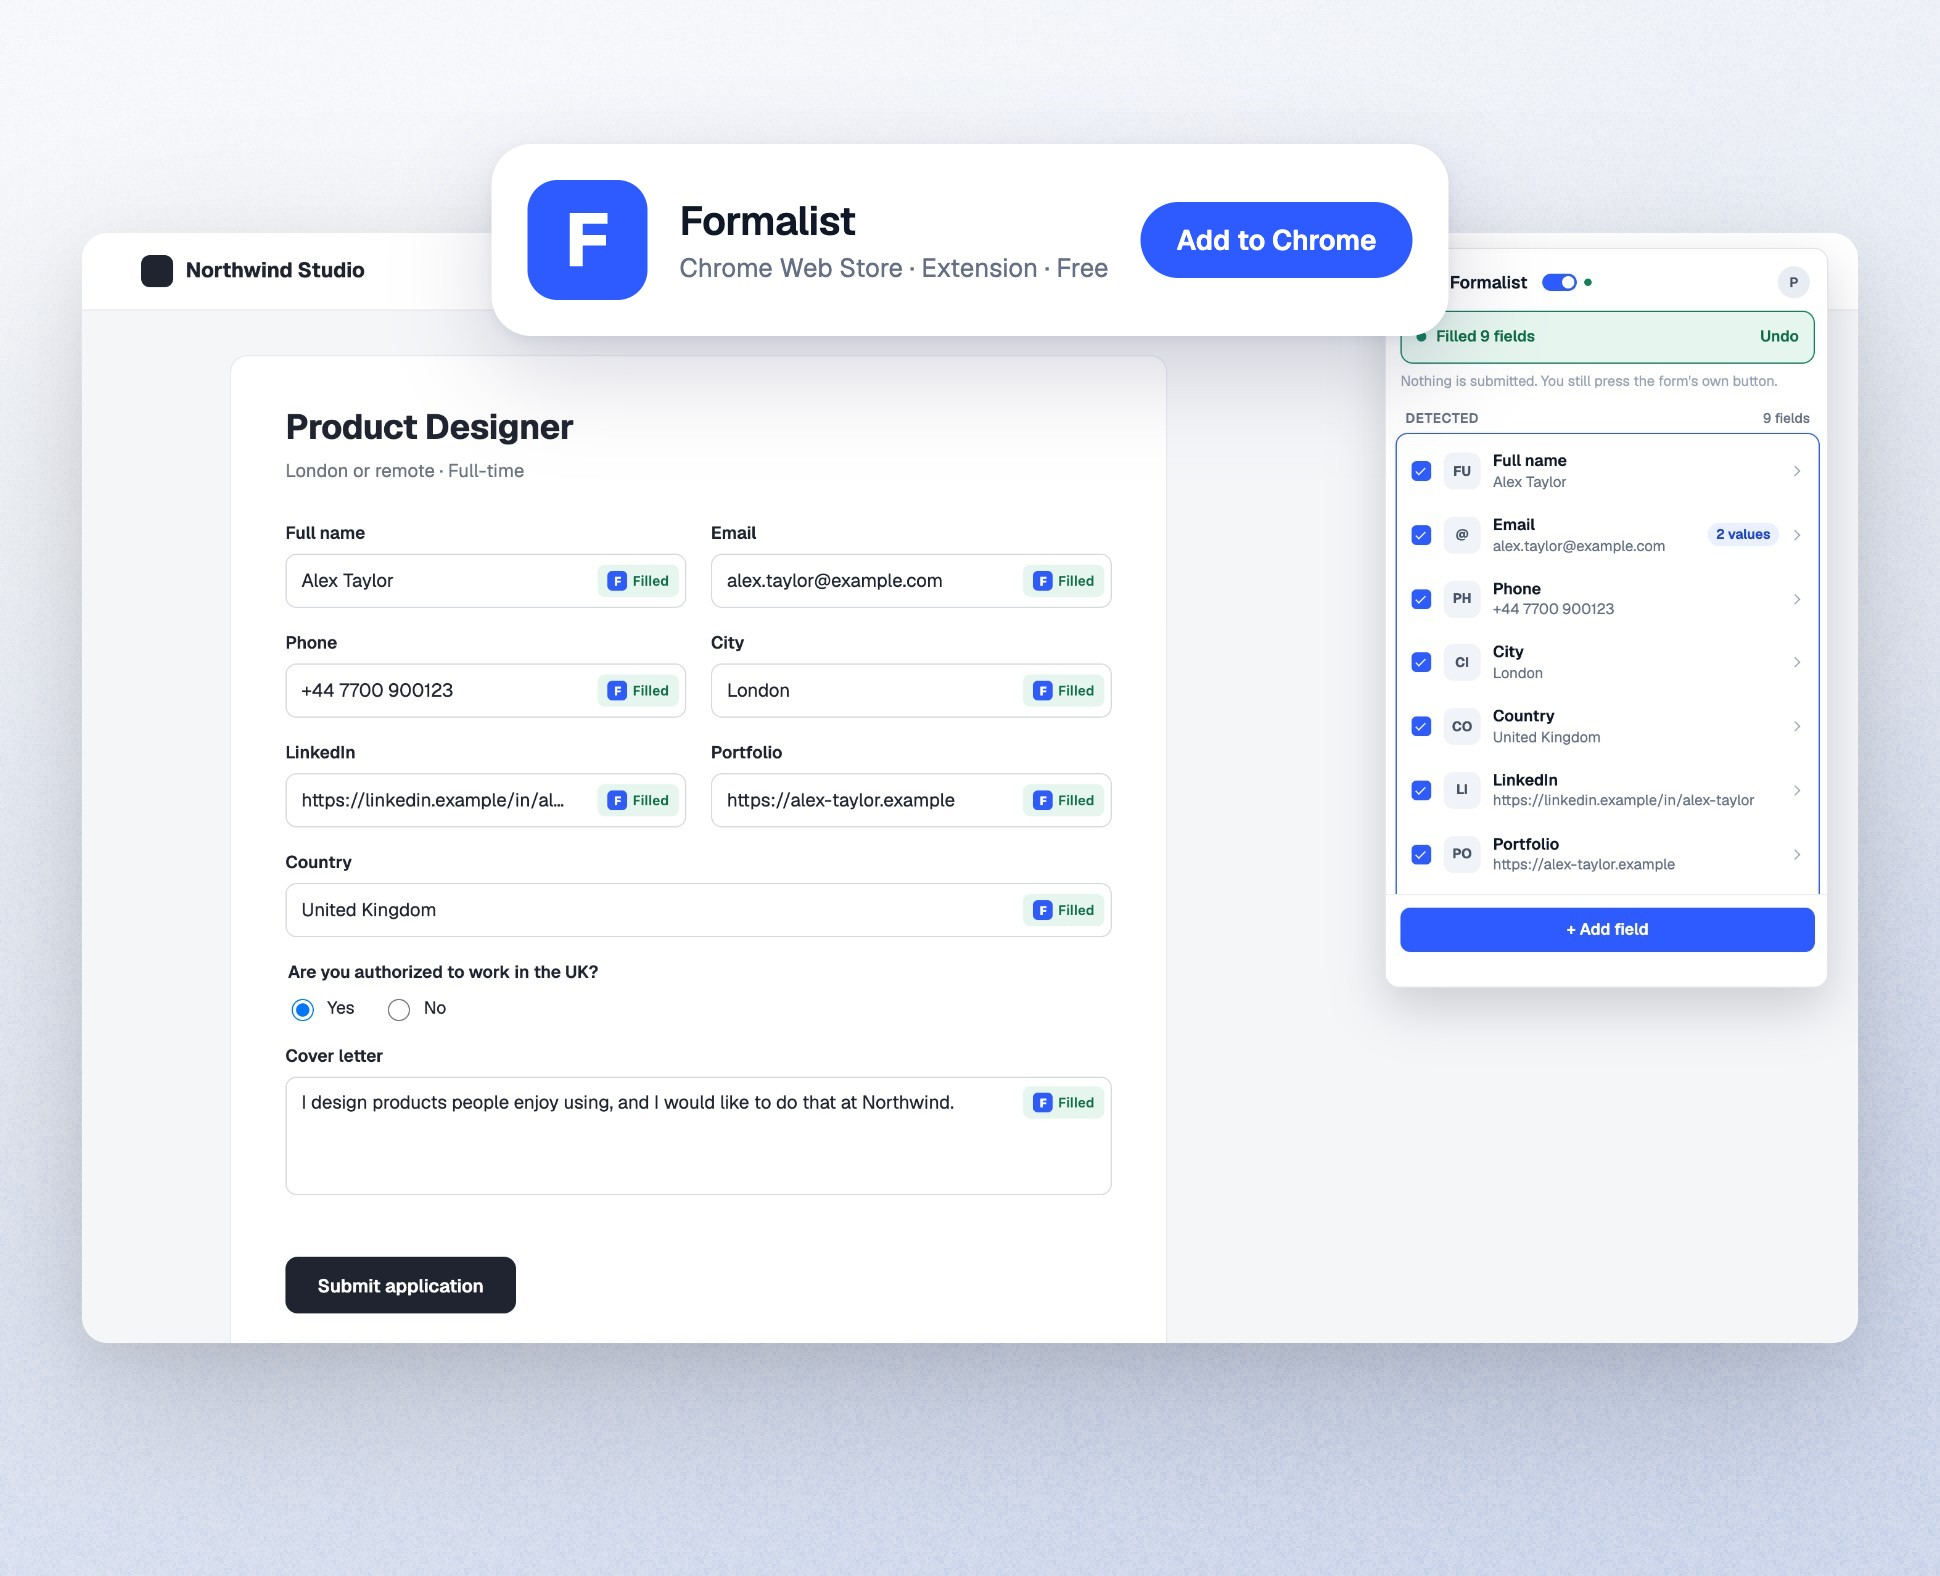
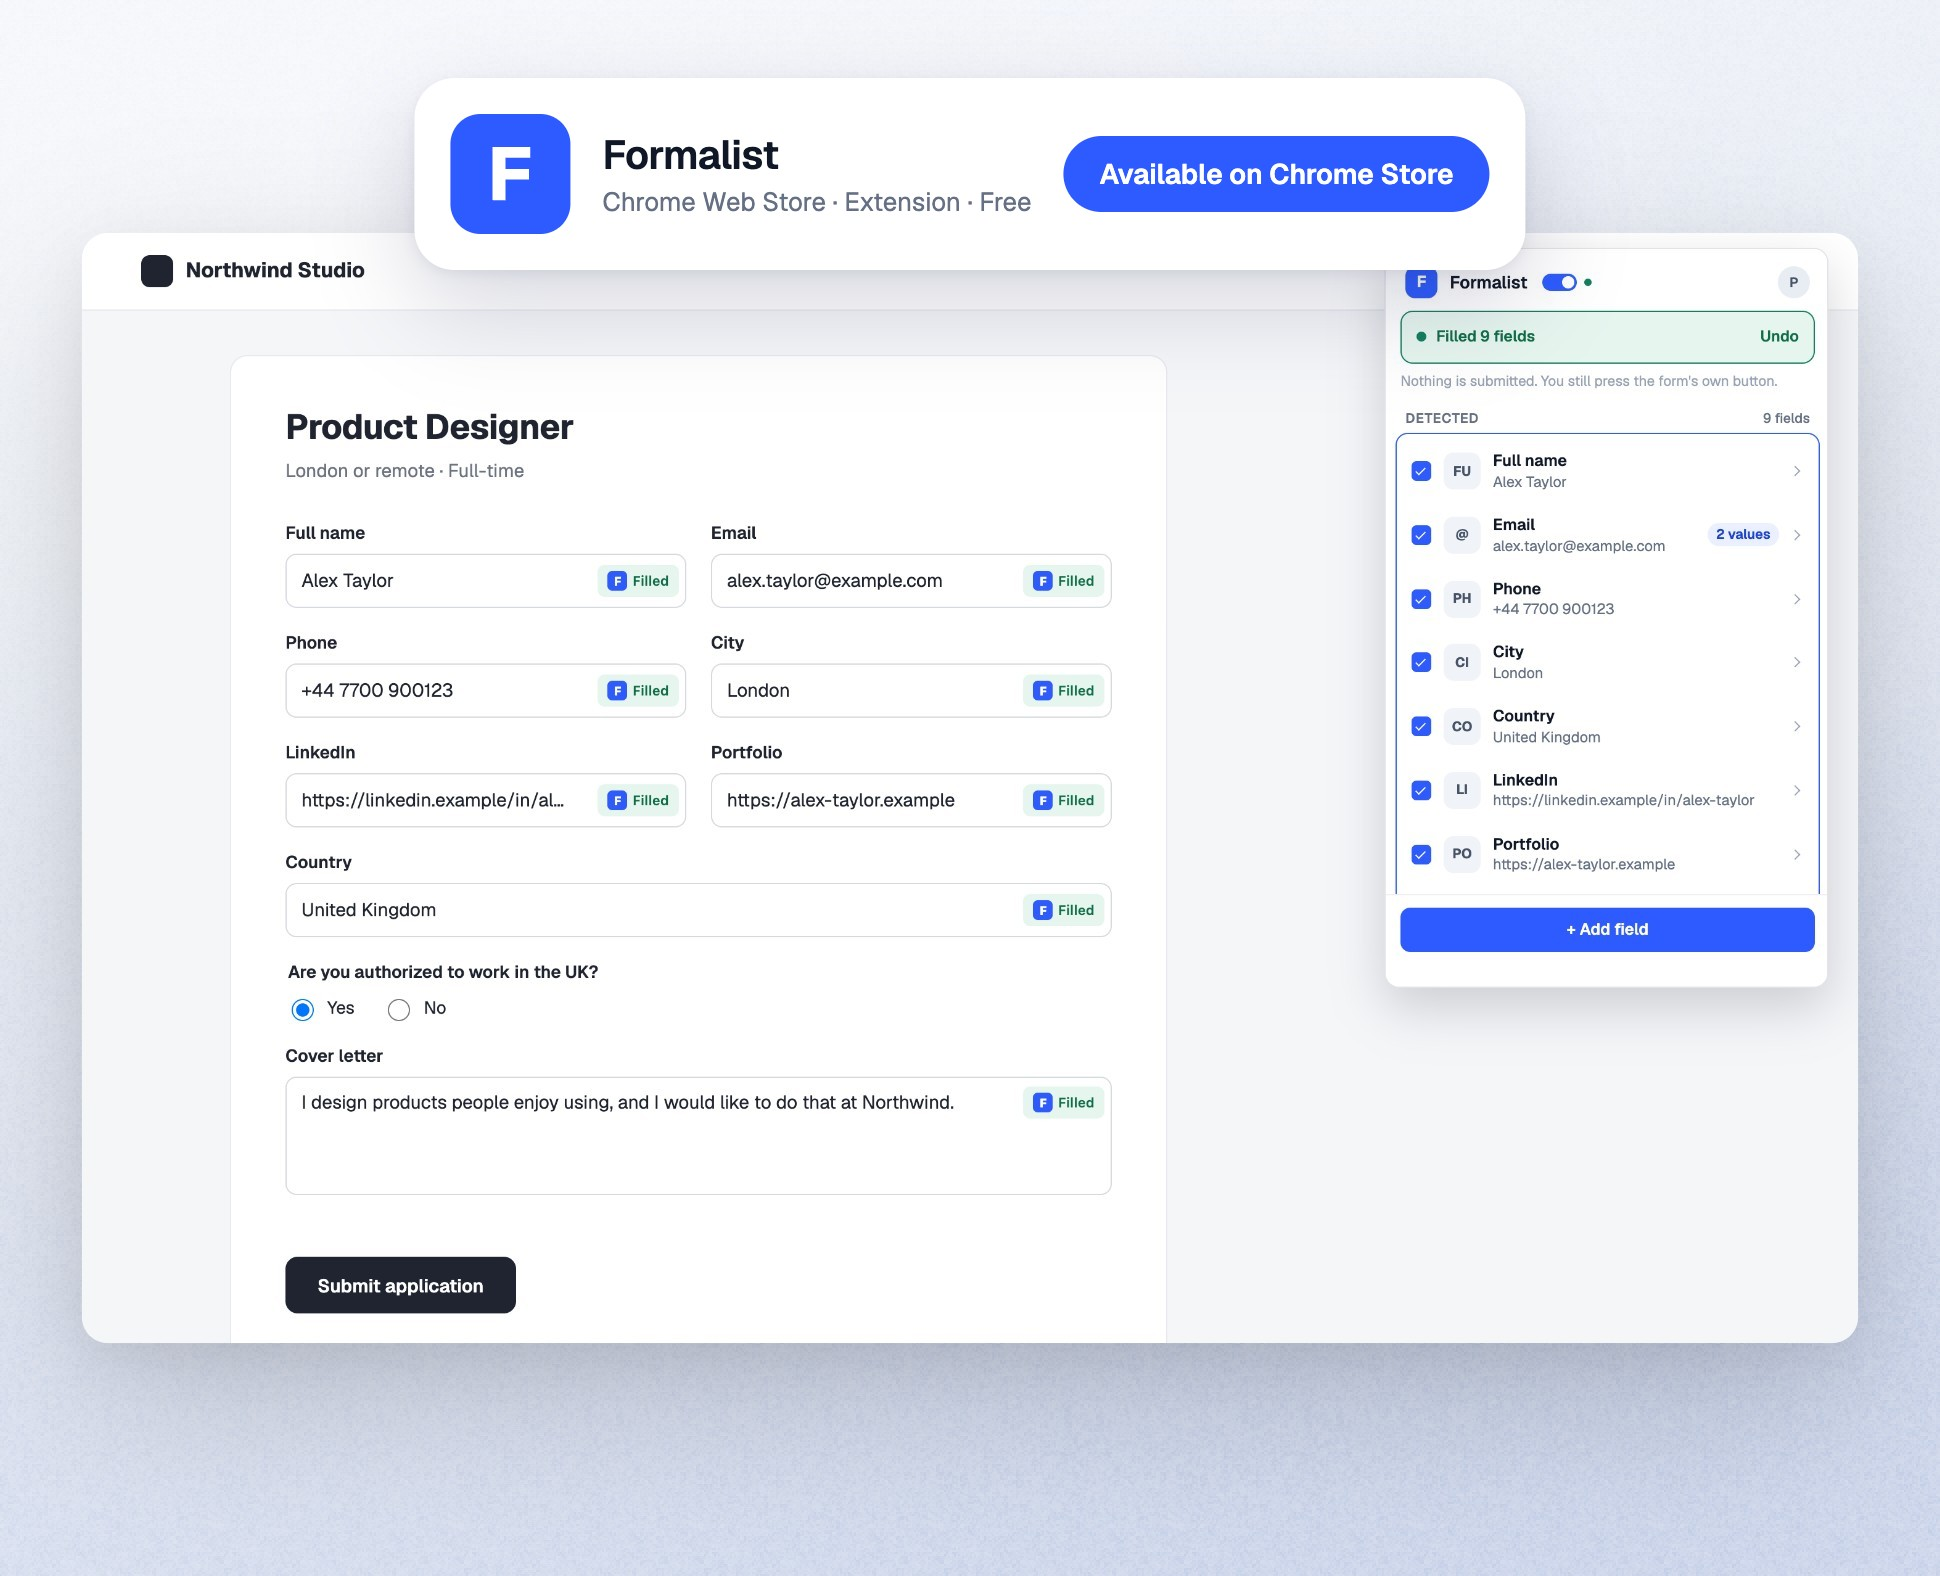
Formalist card: "Available on Chrome Store", listing moved up

Changed region(s): [[0.2165, 0.0622, 0.8041, 0.2176]]

diff --git a/thumbnails/overlays/formalist-store.html b/thumbnails/overlays/formalist-store.html
@@ -5,7 +5,7 @@
   @font-face { font-family: 'Geist'; src: url('geist.woff2') format('woff2'); font-weight: 100 900; }
   html, body { margin: 0; }
   .shot { position: relative; width: 1940px; height: 1576px; background: url('../sources/formalist-card.jpg') 0 0 / 100% 100%; font-family: 'Geist', sans-serif; }
-  .listing { position: absolute; left: 50%; top: 144px; transform: translateX(-50%); display: flex; align-items: center; gap: 32px; padding: 36px; border-radius: 40px; background: #fff;
+  .listing { position: absolute; left: 50%; top: 78px; transform: translateX(-50%); display: flex; align-items: center; gap: 32px; padding: 36px; border-radius: 40px; background: #fff; white-space: nowrap;
     box-shadow: 0 36px 96px rgba(26, 36, 77, .18), 0 4px 12px rgba(26, 36, 77, .08); }
   .icon { width: 120px; height: 120px; display: block; }
   .name { margin: 0; font-size: 40px; font-weight: 600; color: #101828; letter-spacing: -.01em; }
@@ -16,7 +16,7 @@
     <div class="listing">
       <svg class="icon" viewBox="0 0 128 128"><rect width="128" height="128" rx="32" fill="#2E5BFF"/><path d="M44.94 92V35.2H85.26V46.56H51.02L58.86 38.48V64.48L51.02 58.56H83.82V69.92H51.02L58.86 64V92H44.94Z" fill="#fff"/></svg>
       <div><p class="name">Formalist</p><p class="where">Chrome Web Store · Extension · Free</p></div>
-      <span class="button">Add to Chrome</span>
+      <span class="button">Available on Chrome Store</span>
     </div>
   </div>
 </body></html>
